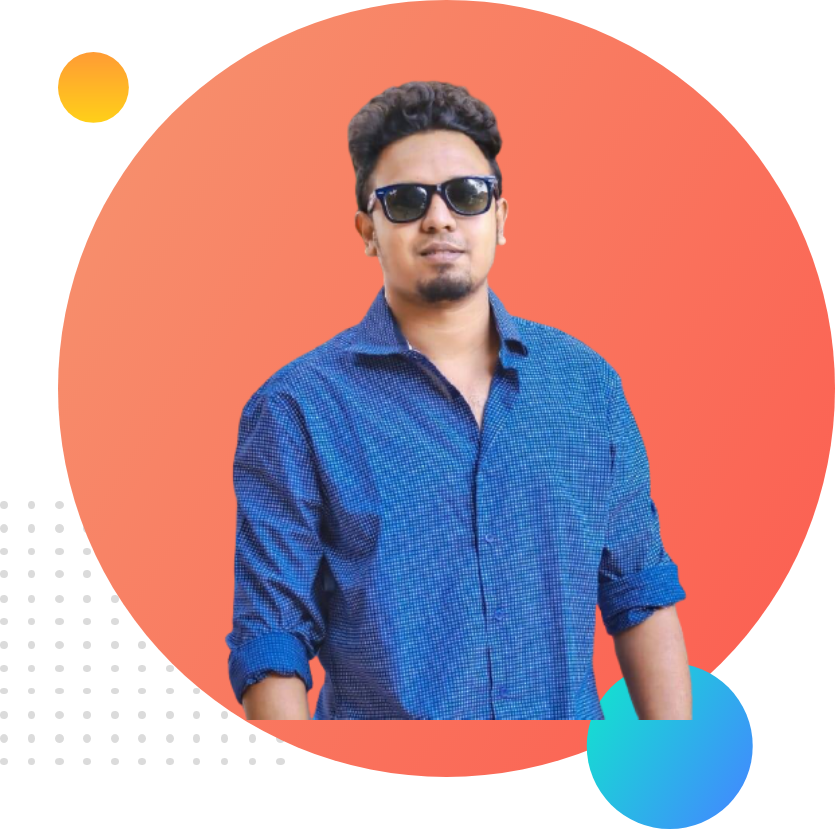
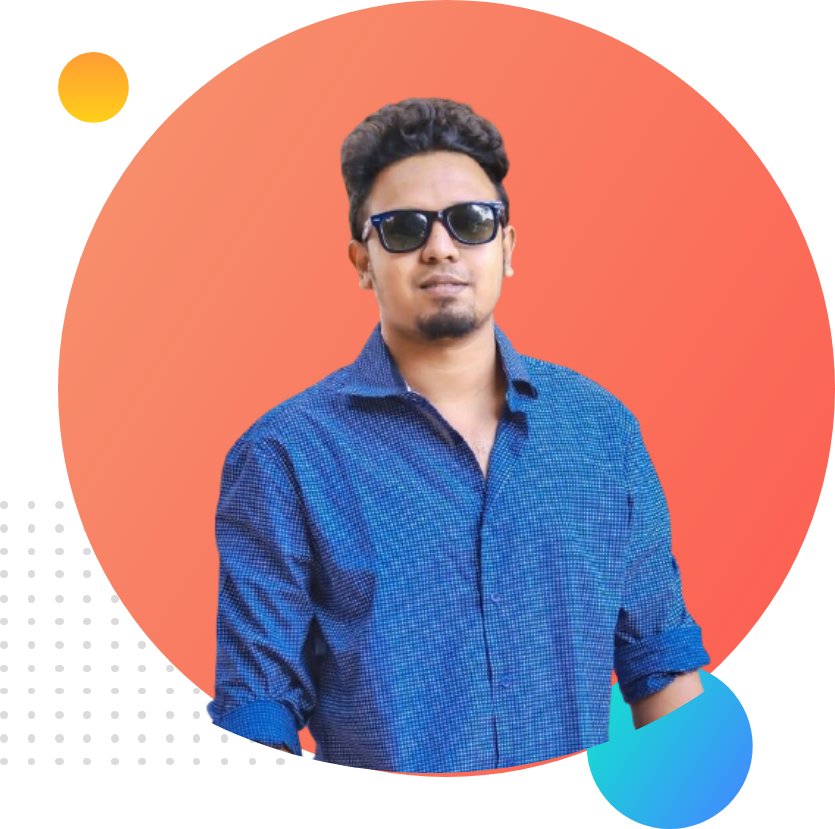
updated

Changed region(s): [[0.2491, 0.0905, 0.8719, 0.9349]]

diff --git a/index.html b/index.html
@@ -15,7 +15,14 @@
     <title>Sojol Portfolio</title>
 </head>
 <body>
-    <h1>Welcome to</h1>
+    <div>
+        <h1>Welcome to</h1>
     <h1> <span class="color-orange">Al Amin Mahfuz's</span>  World!</h1>
+    <h3>Buld climber and Train Stopper</h3>
+    <p>Lorem ipsum dolor sit amet consectetur adipisicing elit. Beatae animi, laborum rem labore distinctio temporibus voluptate atque, quia ad repellendus at pariatur obcaecati error ipsum dolorem nihil similique, corrupti a!</p>
+    </div>
+    
+
+    <img src="image/my-bg.png" alt="">
 </body>
 </html>
